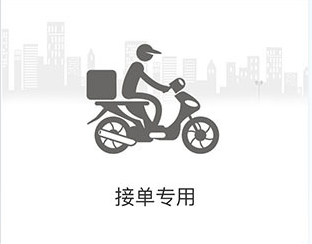
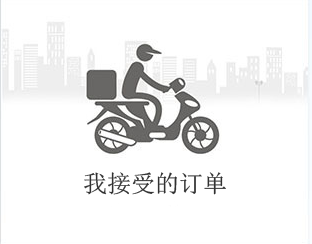
11

Changed region(s): [[0.2596, 0.6885, 0.7212, 0.8607]]

diff --git a/campus_helper/pages/order/order.vue b/campus_helper/pages/order/order.vue
@@ -1,10 +1,10 @@
 <template>
 	<view class="content" @touchstart="start" @touchend="end">
 		<view class="content_top" @tap="toOpenList">
-			<image src="/static/images/order2.png" mode="aspectFit"></image>
+			<image src="/static/images/order2.png" mode="scaleToFill"></image>
 		</view>
 		<view class="content_bottom" @tap="toAcceptList">
-			<image src="/static/images/order1.png" mode="aspectFit"></image>
+			<image src="/static/images/order1.png" mode="scaleToFill"></image>
 		</view>
 	</view>
 </template>
@@ -74,8 +74,8 @@
 		position: relative;
 	}
 	
-	.content_top>img,
-	.content_bottom>img {
+	.content_top>image,
+	.content_bottom>image {
 		width: 750rpx;
 		height: 100%;
 		position: absolute;
